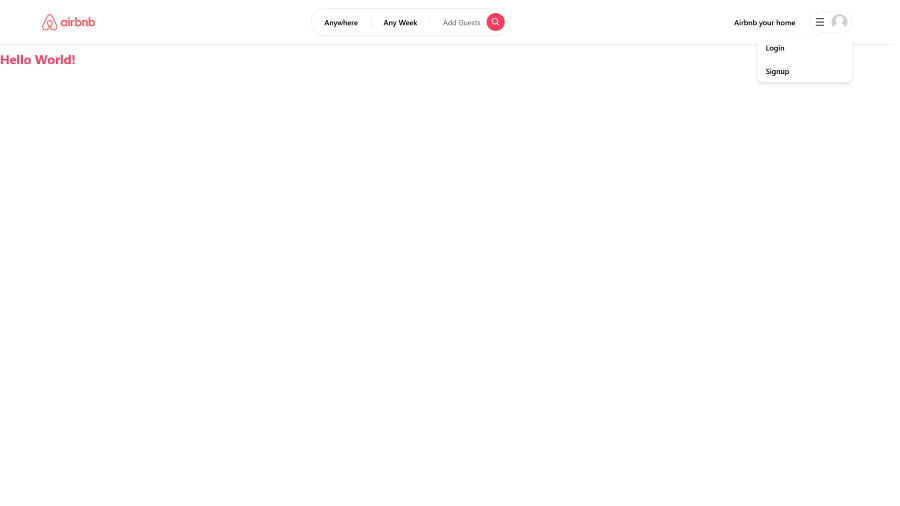
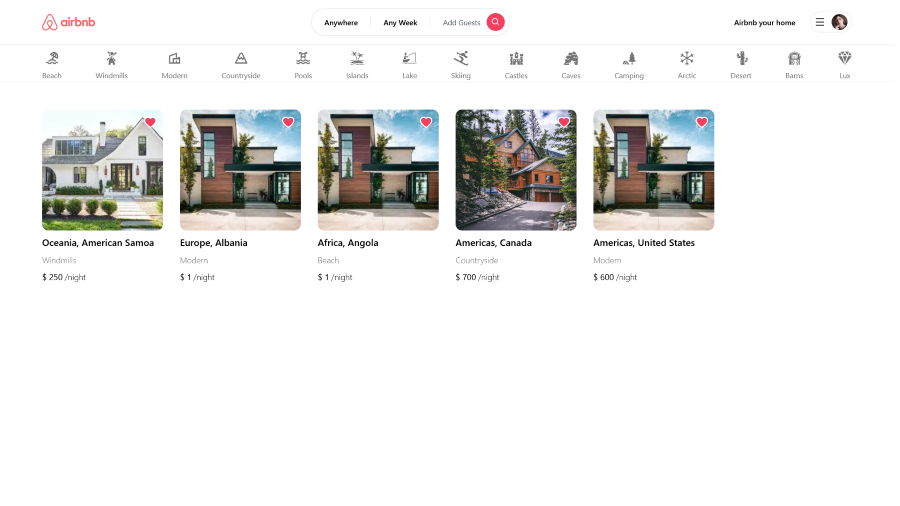
Fetch-Listings: (#11)
- added **EmptyState** component
- created **getListings** for fetching listings server-side
- added **ListingCard** component
- added **HeartButton** component
- added **date-fns** package
- fixed **RentModal** onSubmit problems
- added a new  **cover.png**
- Updated README.md

diff --git a/src/components/listings/ListingCard.tsx b/src/components/listings/ListingCard.tsx
@@ -1,0 +1,114 @@
+"use client";
+
+import { useCallback, useMemo } from "react";
+import { useRouter } from "next/navigation";
+import { format } from "date-fns";
+import Image from "next/image";
+import useCountries from "@/hooks/useCountries";
+//Types
+import { SafeUser } from "@/types";
+import { Listing, Reservation } from "@prisma/client";
+//Components
+import Button from "../Button";
+import HeartButton from "../HeartButton";
+
+export interface ListingCardProps {
+  data: Listing;
+  reservation?: Reservation;
+  onAction?: (id: string) => void;
+  disabled?: boolean;
+  actionLabel?: string;
+  actionId?: string;
+  currentUser?: SafeUser;
+}
+
+const ListingCard = ({
+  data,
+  reservation,
+  onAction,
+  disabled,
+  actionLabel,
+  actionId = "",
+  currentUser,
+}: ListingCardProps) => {
+  // Hooks
+  const router = useRouter();
+  const { getByValue } = useCountries();
+
+  // Date
+  const location = getByValue(data.locationValue);
+
+  const price = useMemo(() => {
+    if (reservation) {
+      return reservation.totalPrice;
+    }
+    return data.price;
+  }, [data.price, reservation]);
+
+  const reservationDate = useMemo(() => {
+    if (!reservation) {
+      return null;
+    }
+    const start = new Date(reservation.startDate);
+    const end = new Date(reservation.endDate);
+    return `${format(start, "PP")} - ${format(end, "PP")}`;
+  }, [reservation]);
+
+  //   Actions
+
+  const handleCancel = useCallback(
+    (e: React.MouseEvent<HTMLButtonElement>) => {
+      e.stopPropagation();
+
+      if (disabled) {
+        return null;
+      }
+
+      onAction?.(actionId);
+    },
+    [disabled, onAction, actionId]
+  );
+
+  return (
+    <article
+      onClick={() => router.push(`/listings/${data.id}`)}
+      className="group col-span-1 cursor-pointer"
+    >
+      <div className="flex flex-col gap-2 w-full">
+        <figure className="aspect-square w-full relative overflow-hidden rounded-xl">
+          <Image
+            src={data.imageSrc}
+            fill
+            alt={"Listing"}
+            className=" object-cover w-full h-full group-hover:scale-110 transition"
+          />
+          <div className={`absolute top-3 right-3`}>
+            <HeartButton listingId={data.id} currentUser={currentUser} />
+          </div>
+        </figure>
+        <div className="font-semibold text-lg">
+          {" "}
+          {location?.region}, {location?.label}
+        </div>
+        <div className="font-light text-neutral-500">
+          {reservationDate || data.category}
+        </div>
+        <div className="flex flex-row items-center gap-1">
+          $ {price}
+          {!reservation && <div className="font-light">/night</div>}
+        </div>
+        {onAction && actionLabel && (
+          <Button
+            disabled={disabled}
+            small
+            label={actionLabel}
+            onClick={handleCancel}
+            btnType="button"
+          />
+        )}
+      </div>
+    </article>
+  );
+};
+
+export default ListingCard;

diff --git a/src/components/modals/RentModal.tsx b/src/components/modals/RentModal.tsx
@@ -25,6 +25,7 @@ import UploadImageInput from "../inputs/UploadImageInput";
 import Input from "../inputs/Input";
 import axios from "axios";
 import { toast } from "react-hot-toast";
+import { useRouter } from "next/navigation";
 
 // variables
 // Form Initials
@@ -43,12 +44,13 @@ const initialValues: RentForm = {
 };
 
 const RentModal = () => {
-  // State
+  // Hooks
   const dispatch = useAppDispatch();
   const isOpen = useAppSelector(selectIsOpen);
   const [step, setStep] = useState(STEPS.CATEGORY);
   const [isSubmitting, setIsSubmitting] = useState(false);
   const formRef = useRef<FormikProps<RentForm>>(null);
+  const router = useRouter();
 
   //   Actions
   const checkStepError = async (step: STEPS) => {
@@ -162,6 +164,9 @@ const RentModal = () => {
       .then((response) => {
         if (response.status == 200) {
           toast.success("Listing Created!");
+          router.push("/");
+          setStep(STEPS.CATEGORY);
+          formRef.current?.resetForm();
           dispatch(onClose());
         }
       })

diff --git a/src/components/EmptyState.tsx b/src/components/EmptyState.tsx
@@ -1,0 +1,31 @@
+"use client";
+import { useRouter } from "next/navigation";
+import { EmptyStateProps } from "@/types";
+import Heading from "./Heading";
+import Button from "./Button";
+
+const EmptyState = ({
+  title = "Now exact matches",
+  subtitle = "Try changing ro removing some of your filters.",
+  showReset,
+}: EmptyStateProps) => {
+  const router = useRouter();
+
+  return (
+    <section className="flex flex-col gap-2 justify-center items-center h-[60vh]">
+      <Heading title={title} subTitle={subtitle} center />
+      <div className="w-48 mt-4">
+        {showReset && (
+          <Button
+            label="Remove all filters"
+            outline
+            onClick={() => router.push("/")}
+            btnType="button"
+          />
+        )}
+      </div>
+    </section>
+  );
+};
+
+export default EmptyState;

diff --git a/src/app/page.tsx b/src/app/page.tsx
@@ -1,5 +1,21 @@
-export default function Home() {
+import getListings from "@/actions/getListings";
+import Container from "@/components/Container";
+import EmptyState from "@/components/EmptyState";
+import ListingCard from "@/components/listings/ListingCard";
+
+export default async function Home() {
+  const listings = await getListings();
+
+  if (listings.length === 0) {
+    return <EmptyState showReset />;
+  }
   return (
-    <div className="pt-24 text-rose-500 text-2xl font-bold">Hello World!</div>
+    <Container>
+      <div className="grid grid-cols-1 sm:grid-cols-2 md:grid-cols-3 lg:grid-cols-4 xl:grid-cols-5 2xl:grid-cols-6 gap-8 pt-24">
+        {listings.map((listing) => (
+          <ListingCard key={listing.id} data={listing} />
+        ))}
+      </div>
+    </Container>
   );
 }

diff --git a/src/components/HeartButton.tsx b/src/components/HeartButton.tsx
@@ -1,0 +1,32 @@
+"use client";
+
+import { SafeUser } from "@/types";
+import { AiFillHeart, AiOutlineHeart } from "react-icons/ai";
+
+export interface HeartButtonProps {
+  listingId: string;
+  currentUser?: SafeUser | null;
+}
+
+const HeartButton = ({ listingId, currentUser }: HeartButtonProps) => {
+  const hasFavorited = true;
+  const toggleFavorite = () => {};
+
+  return (
+    <button
+      onClick={toggleFavorite}
+      className="relative hover:opacity-80 transition cursor-pointer"
+    >
+      <AiOutlineHeart
+        size={28}
+        className="fill-white absolute -top-[2px] -right-[2px]"
+      />
+      <AiFillHeart
+        size={24}
+        className={`${hasFavorited ? "fill-rose-500" : "fill-neutral-500/70"}`}
+      />
+    </button>
+  );
+};
+
+export default HeartButton;

diff --git a/src/types/index.ts b/src/types/index.ts
@@ -130,7 +130,10 @@ export interface InputProps {
   touched?: boolean;
 }
 
-type SafeUser = Omit<User, "createdAt" | "updateAt" | "emailVerified"> & {
+export type SafeUser = Omit<
+  User,
+  "createdAt" | "updateAt" | "emailVerified"
+> & {
   createdAt: string;
   updateAt: string;
   emailVerified?: string | null;
@@ -187,6 +190,11 @@ export interface RentForm {
   description: "";
 }
 
+export interface EmptyStateProps {
+  title?: string;
+  subtitle?: string;
+  showReset?: boolean;
+}
 // States
 // Define a type for the slice state
 export interface ModalState {

diff --git a/src/app/layout.tsx b/src/app/layout.tsx
@@ -14,15 +14,14 @@ export const metadata = {
 };
 
 export default async function RootLayout({ children }: ContainerProps) {
-
-const currentUser = await getCurrentUser();
+  const currentUser = await getCurrentUser();
 
   return (
     <OuterProviders>
       <html lang="en">
         <body className={nunito.className} suppressHydrationWarning={true}>
           <NavBar currentUser={currentUser} />
-          {children}
+          <div className="pb-20 pt-28">{children}</div>
           <InnerProviders />
         </body>
       </html>

diff --git a/src/actions/getListings.ts b/src/actions/getListings.ts
@@ -1,0 +1,15 @@
+import { prisma } from "@/utils/prismadb";
+
+export default async function getListings() {
+  try {
+    // fetch all the listings
+    const listings = await prisma.listing.findMany({
+      orderBy: {
+        createdAt: "desc",
+      },
+    });
+    return listings;
+  } catch (error: any) {
+    throw new Error(error);
+  }
+}

diff --git a/src/utils/validationSchema.ts b/src/utils/validationSchema.ts
@@ -54,5 +54,7 @@ export const RentSchema = object({
   description: string()
     .min(100, "Description is too Short")
     .required("Add description first!"),
-  price: number().required("Add price first!"),
+  price: number()
+    .min(10, "Price must be more then $10 per night!")
+    .required("Add price first!"),
 });

diff --git a/README.md b/README.md
@@ -10,7 +10,7 @@ Explore the [demo](https://maxjn-airbnb-clone.vercel.app/) for better understand
 - TypeScript
 - **Nextjs v13.4.1**
 - **Main Packages:** mongodb, mongoose, next-auth, prisma ,redux-toolkit, react-reudux
-- **Secondary Packages:** world-countries,react-select,leaflet,react-leaflet,@types/leaflet,bcrypt,
+- **Secondary Packages:** world-countries,react-select,leaflet,react-leaflet,@types/leaflet,bcrypt, date-fns
 - **Routing:** useing new app directory
 
 ## Features
